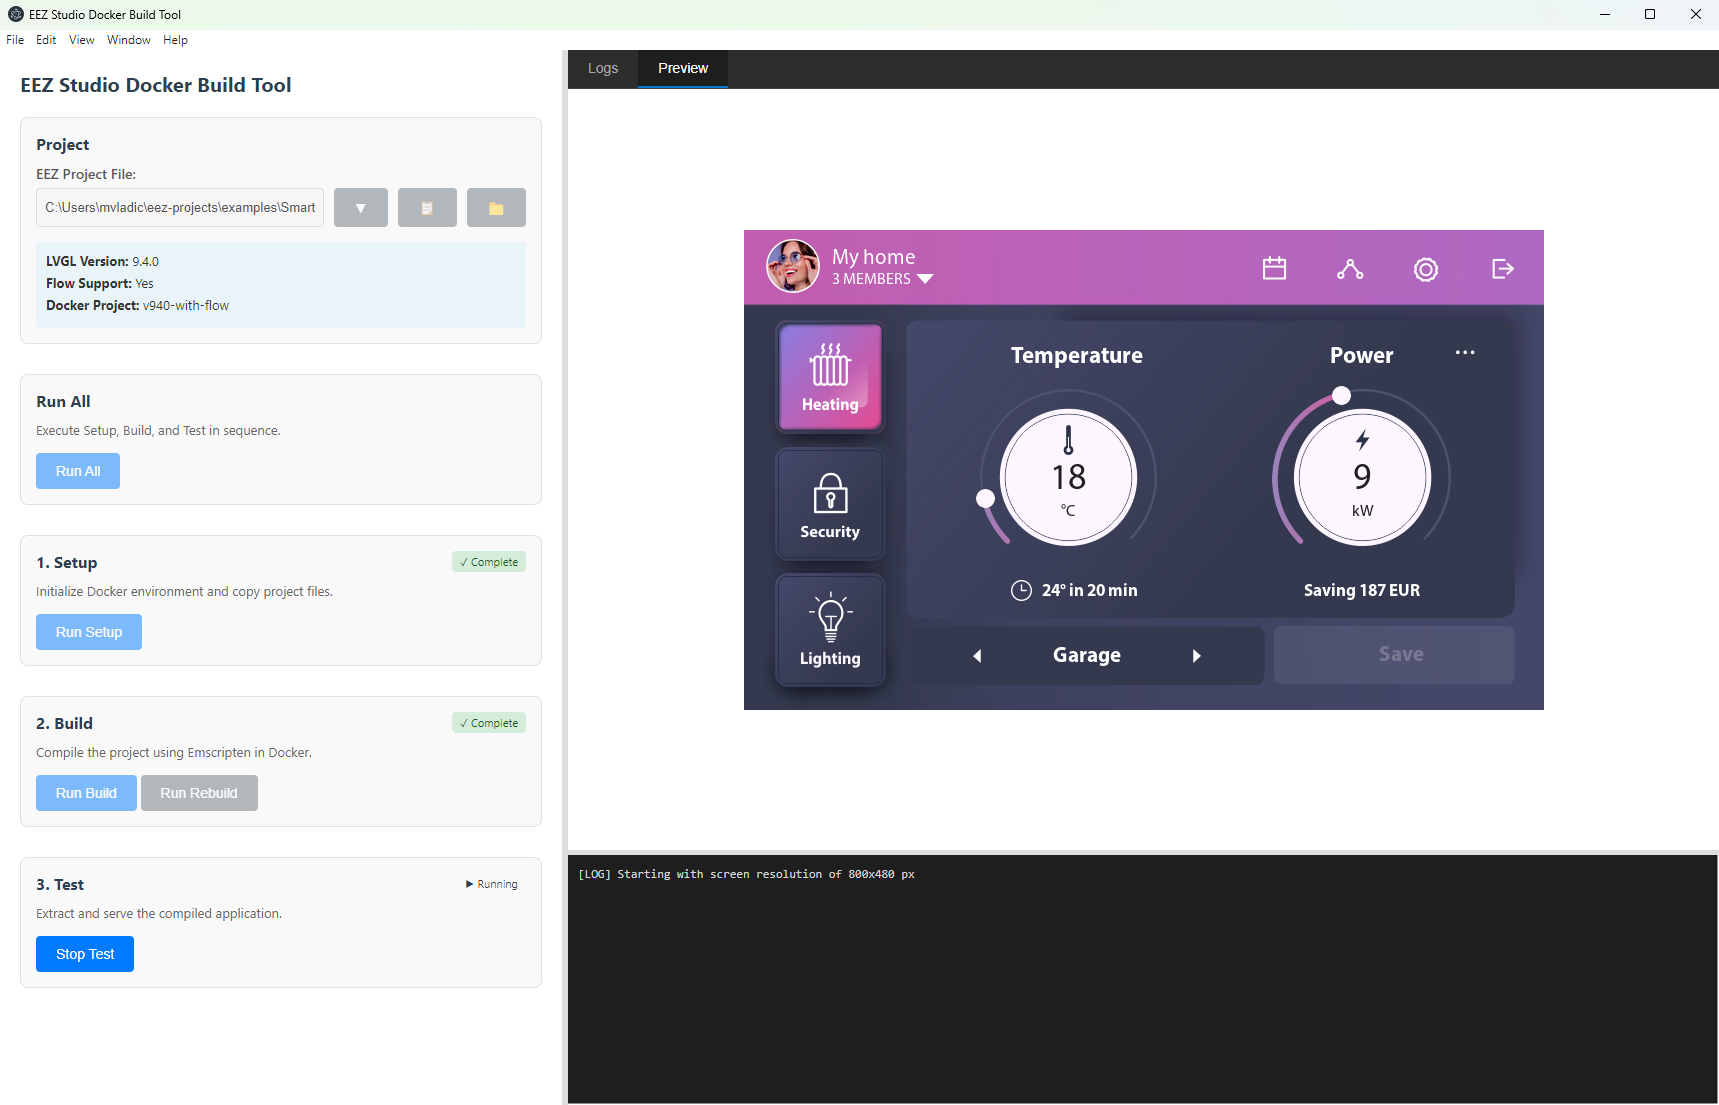
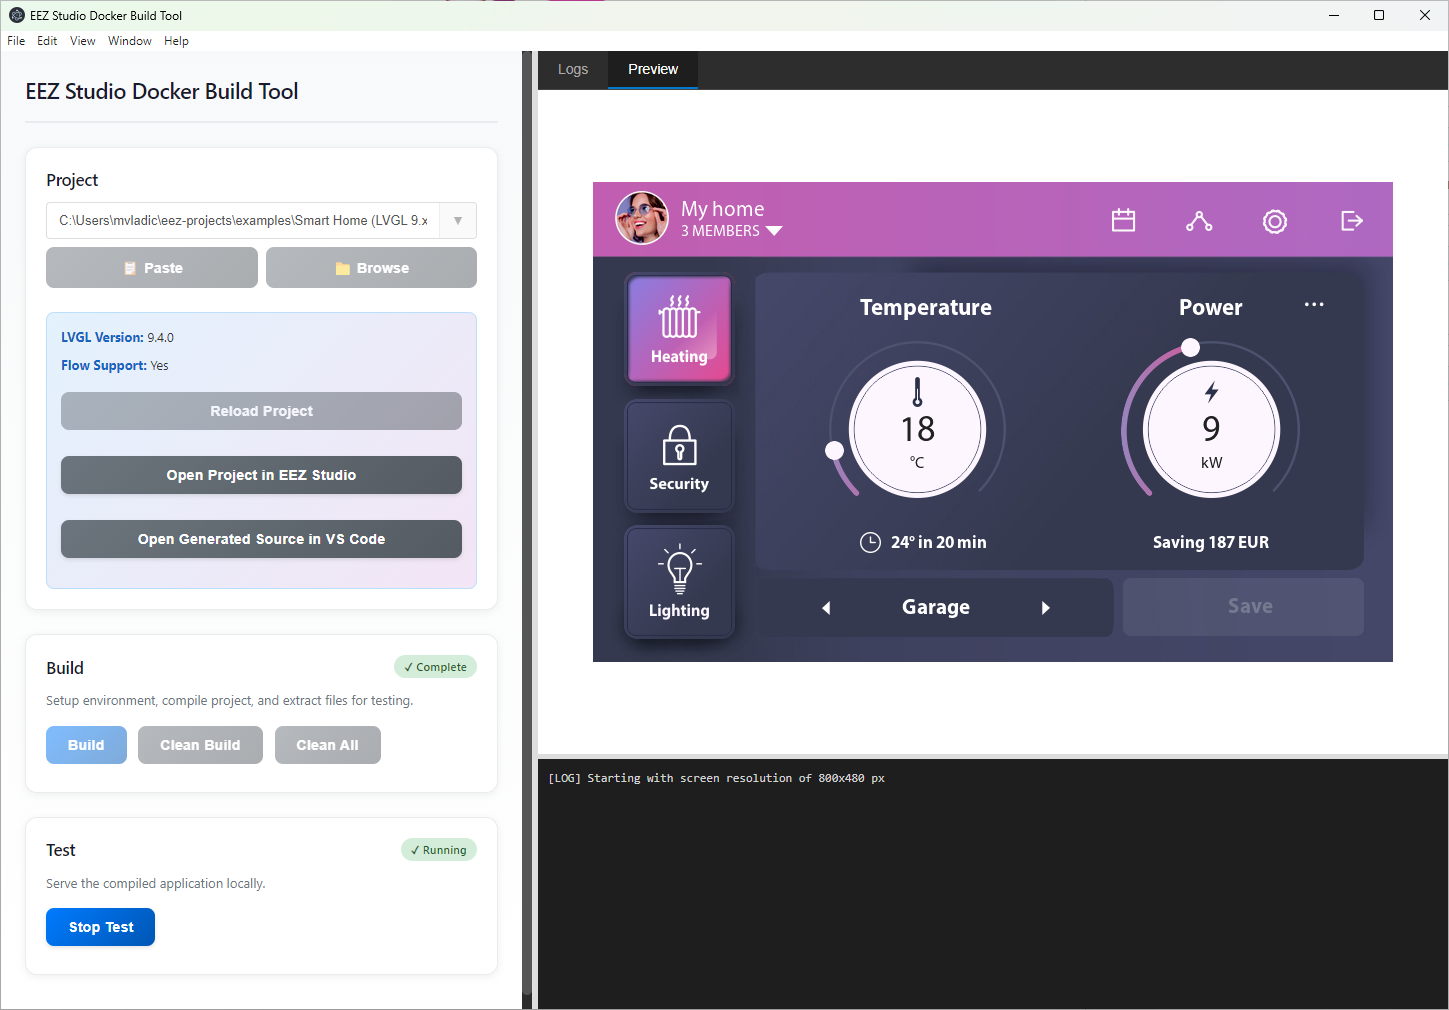
update screenshot to reflect new UI features and improvements

diff --git a/README.md b/README.md
@@ -2,23 +2,35 @@
 
 <div align="center">
   <img src="assets/icon.png" alt="EEZ Studio Docker Build Tool" width="128" height="128">
-  <p>Electron application for building EEZ Studio LVGL projects using Docker and Emscripten</p>
+  <p>Electron application for building <a href="https://github.com/eez-open/studio">EEZ Studio</a> LVGL projects using Docker and Emscripten</p>
 </div>
 
 ![Screenshot](assets/screenshot.png)
 
+## About
+
+This tool provides a user-friendly desktop interface for building LVGL-based projects created with [EEZ Studio](https://github.com/eez-open/studio). It uses the [lvgl-simulator-for-studio-docker-build](https://github.com/mvladic/lvgl-simulator-for-studio-docker-build) repository to compile your projects into WebAssembly applications that run in the browser.
+
+**Key Components:**
+- **EEZ Studio**: Visual development tool for creating LVGL user interfaces
+- **Build Repository**: [lvgl-simulator-for-studio-docker-build](https://github.com/mvladic/lvgl-simulator-for-studio-docker-build) - LVGL simulator with Emscripten build scripts
+- **Docker**: Isolated build environment with Emscripten toolchain
+- **This Tool**: Desktop GUI that orchestrates the build process
+
 ## Features
 
-- **Run All Workflow**: One-click Setup → Build → Test sequence with automatic error handling
-- **Project Management**: Browse .eez-project files with recent projects list and clipboard paste
-- **Docker Integration**: Automated volume management with per-project Emscripten cache
-- **File Watching**: Auto-detect changes in eez-project and src/ui, prompt for rebuild
+- **Simplified Workflow**: One-click Build button that handles Setup → Build → Extract automatically
+- **Project Management**: Browse .eez-project files with recent projects dropdown and clipboard paste
+- **Docker Integration**: Automated volume management with persistent Emscripten environment
 - **Test Server**: Built-in web server with live preview, console output, and cache-busting
 - **Tabbed Interface**: Separate views for build logs and test preview/console
-- **Duration Tracking**: See how long each operation takes
+- **Clean Options**: Clean Build (removes build directory) or Clean All (fresh start from scratch)
+- **Abort Support**: Cancel long-running build operations mid-process
 - **Smart Logs**: Searchable, filterable logs with timestamps, word wrap, and autoscroll
 - **Resizable Panels**: Customizable layout with draggable splitters
-- **Persistent Settings**: Remembers last project, panel sizes, and log preferences
+- **Persistent Settings**: Remembers last project, window state, panel sizes, and log preferences
+- **VS Code Integration**: Open generated source files directly in VS Code
+- **EEZ Studio Integration**: Quick-open projects in EEZ Studio
 
 ## Prerequisites
 
@@ -63,36 +75,42 @@ Output will be in the `dist/` folder.
 
 ## Workflow
 
-### Quick Start (Run All)
-1. **Select Project**: Choose your .eez-project file or paste path
-2. **Click "Run All"**: Automatically runs Setup → Build → Test
-3. **View Results**: Switch between Logs and Preview+Console tabs
+### Quick Start
+1. **Select Project**: Choose your .eez-project file or paste path from clipboard
+2. **Click "Build"**: Automatically runs Setup → Build → Extract in one operation
+3. **Click "Start Test"**: Launch the web preview with live console
+4. **View Results**: Switch between Logs and Preview tabs
 
-### Manual Workflow
-1. **Setup**: Initialize Docker environment and copy source files
-2. **Build**: Compile the project with Emscripten
-3. **Test**: Extract and run the compiled WebAssembly application
+### Build Process
+The **Build** button performs three steps automatically:
+1. **Setup**: Initializes Docker environment, clones/updates repository, copies your source files
+2. **Build**: Compiles the project with Emscripten (LVGL + your UI code)
+3. **Extract**: Copies the compiled WebAssembly files to the output directory
 
-### File Watching
-- Changes detected in `eez-project` or `src/ui` trigger notification
-- Click **Rebuild** to run full workflow automatically
-- Or **Dismiss** to ignore changes
+### Clean Options
+- **Clean Build**: Removes only the `/project/build` directory (forces recompilation)
+- **Clean All**: Removes entire `/project` directory (fresh clone from GitHub next build)
+
+### Abort Operations
+- Click **Abort** button during Build to cancel the operation
+- The current Docker process is terminated immediately
+- Useful for long builds or when you need to make changes
 
 ## Project Structure
 
 ```
 src/
   main/
-    main.js          # Electron main process
-    preload.js       # IPC bridge
+    main.js          # Electron main process with Docker/IPC handlers
+    preload.js       # Secure IPC bridge
   renderer/
-    index.html       # Main UI
+    index.html       # Main UI markup
     app.js           # UI logic and state management
-    styles.css       # Styling
+    styles.css       # Modern gradient styling
 docker-build/
-  Dockerfile         # Docker environment setup
-  docker-compose.yml # Docker services with named volumes
-  build.sh           # Emscripten build script
+  Dockerfile         # Emscripten 4.0.20 with FreeType support
+  docker-compose.yml # Docker services with named volume
+  output/            # Extracted build files (index.html, index.js, etc.)
 assets/
   icon.png           # Application icon (Linux)
   icon.ico           # Application icon (Windows)
@@ -101,42 +119,90 @@ assets/
 
 ## Docker Volumes
 
-The tool uses named volumes for efficient builds:
-- `v840-no-flow`, `v840-with-flow` - LVGL 8.4.0 caches
-- `v922-no-flow`, `v922-with-flow` - LVGL 9.2.2 caches
-- `v930-no-flow`, `v930-with-flow` - LVGL 9.3.0 caches
-- `v940-no-flow`, `v940-with-flow` - LVGL 9.4.0 caches
+The tool uses a single named volume for efficient builds:
+- **lvgl-simulator**: Persistent Docker volume containing the cloned [lvgl-simulator-for-studio-docker-build](https://github.com/mvladic/lvgl-simulator-for-studio-docker-build) repository and Emscripten cache
 
-Each project gets its own persistent Emscripten cache for faster rebuilds.
+The repository is cloned once on first setup, then updated via `git pull` on subsequent builds. Source files from your project's destination folder (configured in EEZ Studio settings) are copied to `/project/src/` before each build.
+
+## UI Features
+
+### Recent Projects
+- Click the dropdown arrow (▼) next to the project path field
+- Navigate with arrow keys, Enter to select
+- Recently used projects appear at the top
+
+### Clipboard Paste
+- The **📋 Paste** button is only enabled when clipboard contains an `.eez-project` path
+- Automatically detects valid project paths
+
+### Reload Project
+- Refresh project settings without restarting the app
+- Useful after changing LVGL version or display settings in EEZ Studio
+
+### Open in EEZ Studio / VS Code
+- **Open Project in EEZ Studio**: Launch the .eez-project file
+- **Open Generated Source in VS Code**: Open the destination folder (visible only if folder exists)
+
+### Status Badges
+- **Pending**: Gray - operation not started
+- **In Progress**: Yellow with pulse animation - currently running
+- **Complete**: Green - operation successful
+- **Error/Aborted**: Red - operation failed or cancelled
 
 ## Keyboard Shortcuts
 
-- **Ctrl+V** (in project path field): Paste clipboard path
-- **Search logs**: Type in search field to filter
+- **Arrow Keys**: Navigate recent projects dropdown
+- **Enter**: Select highlighted project in dropdown
+- **Escape**: Close dropdown
+- **Tab**: Close dropdown and move to next field
 
 ## Troubleshooting
 
 ### Docker Not Found
 - Install Docker Desktop from https://www.docker.com/products/docker-desktop
 - Ensure Docker Desktop is running before launching the app
+- Check that `docker --version` works in your terminal
 
 ### Build Failures
-- Check Docker logs in the Logs tab
-- Verify `src/ui` folder exists next to .eez-project file
+- Check Docker logs in the Logs tab for detailed error messages
+- Verify destination folder (from EEZ Studio settings) exists and contains generated files
 - Ensure LVGL version is supported (8.4.0, 9.2.2, 9.3.0, 9.4.0)
-- Check that eez-project-file includes valid LVGL configuration
+- Try **Clean All** followed by **Build** for a fresh start
 
 ### Test Server Issues
 - The test server automatically finds available ports starting from 3000
 - If preview doesn't load, check browser console in the Console tab
-- Click Stop Test and Start Test again to refresh
+- Build must complete successfully before Test button is enabled
+- Click **Stop Test** and **Start Test** again to refresh with cache-busting
 
 ### Volume Cleanup
-If you need to reset Docker volumes:
+If you need to reset the Docker volume:
 ```bash
-docker volume ls | grep 'v840\|v922\|v930\|v940'
-docker volume rm <volume-name>
+docker volume ls
+docker volume rm lvgl-simulator
 ```
+
+Next build will clone the repository from scratch.
+
+### Abort Not Working
+- Abort terminates the current Docker process
+- If operations still continue, restart the application
+- Check that no orphaned Docker containers are running: `docker ps -a`
+
+## Configuration
+
+### Project Settings (in EEZ Studio)
+- **LVGL Version**: Determines which LVGL library to use
+- **Display Width/Height**: Canvas size for the simulator
+- **Destination Folder**: Where EEZ Studio generates source files (default: `src/ui`)
+- **Flow Support**: Enable/disable flow runtime
+
+### Application Settings
+Automatically saved:
+- Window size and position
+- Panel splitter positions
+- Recent projects list (last 10)
+- Log preferences (timestamps, autoscroll, word wrap)
 
 ## License
 
@@ -144,4 +210,15 @@ MIT License - see [LICENSE](LICENSE) file for details
 
 ## Development
 
-See [DEVELOPMENT.md](DEVELOPMENT.md) for development guidelines and architecture details.
+### Project Architecture
+- **Electron**: Desktop application framework
+- **Docker/Emscripten**: Isolated build environment
+- **Express**: Local test server
+- **IPC Communication**: Secure renderer ↔ main process messaging
+
+### Key Technologies
+- Electron 29+
+- Node.js with async/await
+- Docker Compose with named volumes
+- Emscripten 4.0.20
+- FreeType 2.14.1 (for advanced text rendering)
